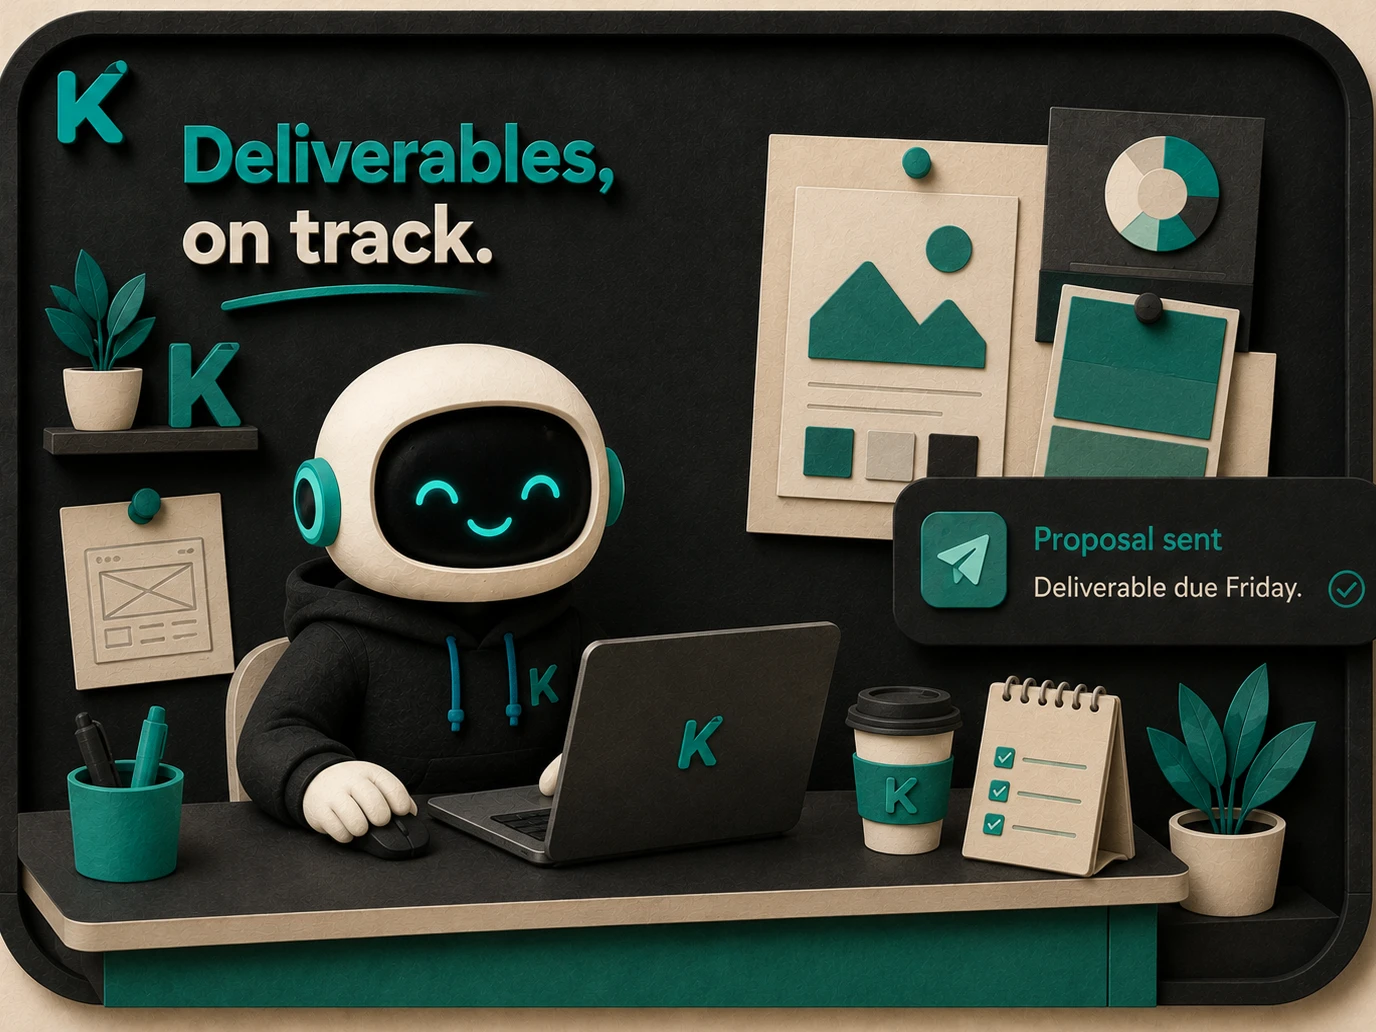
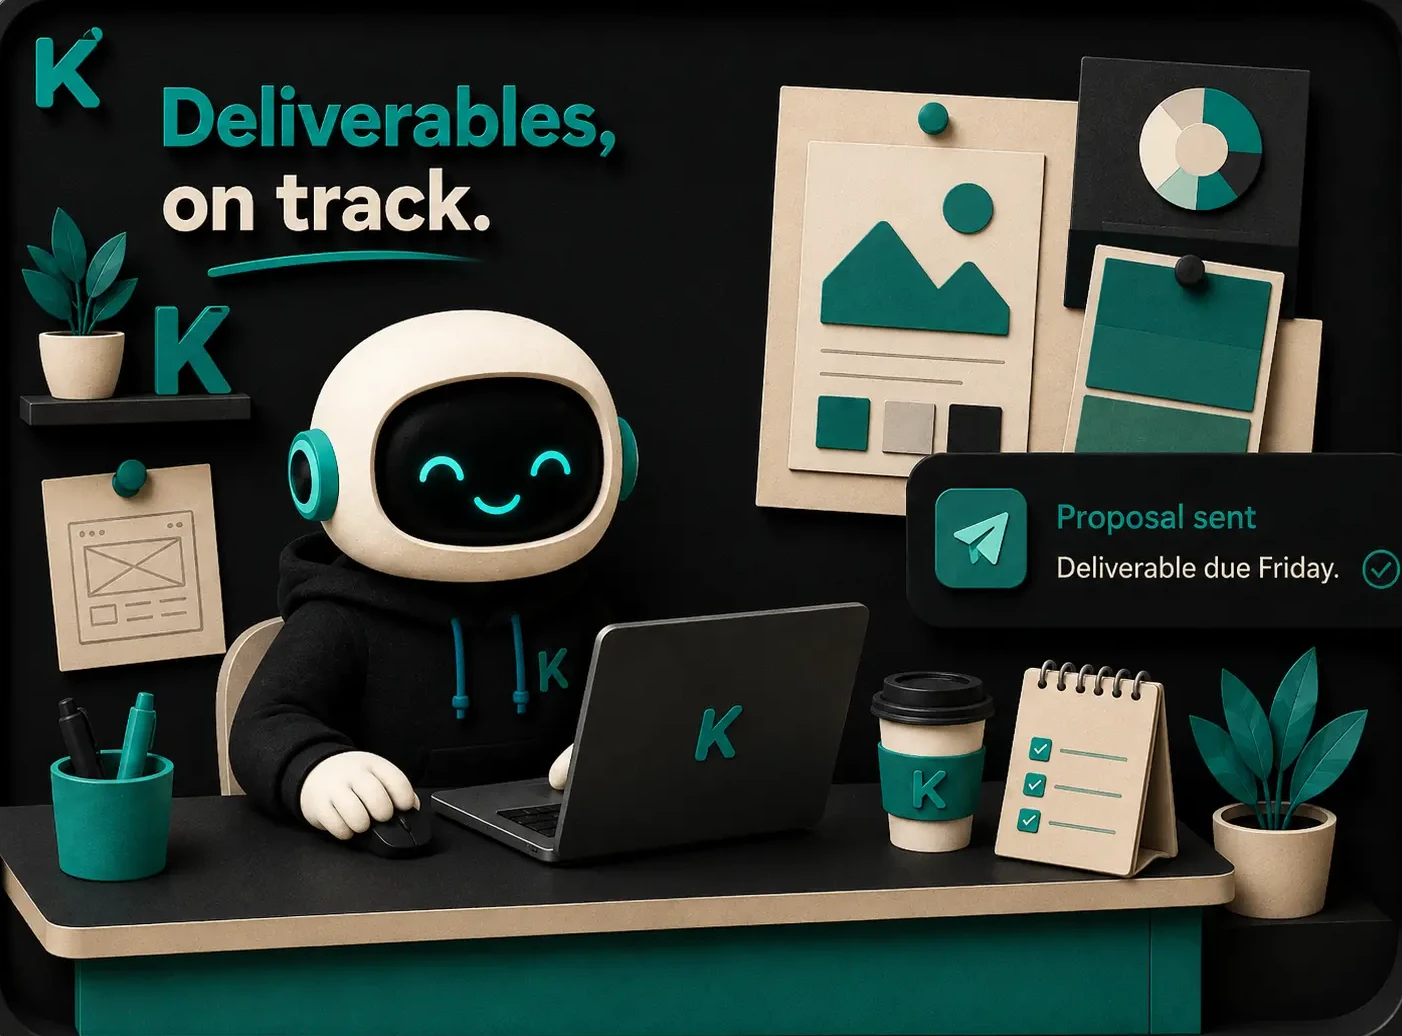
Swap in the new vertical art, cropped free of its frame
The four trade illustrations are replaced with the dark-ground set that
matches the site palette. Each source ships inside a baked rounded frame
and drop shadow, which read as a box sitting inside the showcase panel,
so they are cropped to just inside that frame — per-side insets measured
against each file rather than a uniform percentage, since the frames
differ in thickness and elements like the notification cards run right up
to the inner edge.

The panel cell now fills edge to edge at aspect 1.55 with object-cover,
and each vertical carries its own backdrop colour so nothing flashes
against the card during the crossfade. The image transition drops
mode="wait" so the two illustrations cross-dissolve instead of leaving
the panel empty for half a second between tabs.

Claude-Session: https://claude.ai/code/session_01MA9Ffj7rbrkHRPwnGXBQnp

diff --git a/app/page.tsx b/app/page.tsx
@@ -41,6 +41,7 @@ const VERTICALS = [
   {
     tab: "Coaching",
     image: "/images/vertical-coaching.webp",
+    bg: "#1c1c1c",
     name: "Coaching institutes",
     pain: "Admission inquiries get lost across DMs and WhatsApp.",
     win: "KROVA tracks every parent inquiry, follows up on unpaid fees, books demo calls.",
@@ -49,6 +50,7 @@ const VERTICALS = [
   {
     tab: "Clinics",
     image: "/images/vertical-clinics.webp",
+    bg: "#1c1c1c",
     name: "Clinics & doctors",
     pain: "Appointment requests pile up, follow-ups slip.",
     win: "KROVA confirms slots, sends prescription reminders, flags no-show risks early.",
@@ -57,6 +59,7 @@ const VERTICALS = [
   {
     tab: "Salons",
     image: "/images/vertical-salons.webp",
+    bg: "#101010",
     name: "Salons & spas",
     pain: "Booking requests sit in five different inboxes, and regulars get forgotten.",
     win: "KROVA confirms bookings, wishes birthdays, brings dormant customers back.",
@@ -65,6 +68,7 @@ const VERTICALS = [
   {
     tab: "Agencies",
     image: "/images/vertical-agencies.webp",
+    bg: "#0c0c0c",
     name: "Agencies & studios",
     pain: "Client commitments drift and quotes go unanswered.",
     win: "KROVA tracks deliverables, flags scope creep, drafts proposal replies in your tone.",
@@ -233,8 +237,8 @@ function VerticalShowcase() {
       {/* Panel */}
       <div className="overflow-hidden rounded-2xl border border-os-border bg-os-card">
         <div className="grid lg:grid-cols-2">
-          <div className="relative aspect-[4/3] lg:aspect-auto lg:min-h-[24rem]">
-            <AnimatePresence mode="wait">
+          <div className="relative aspect-[1.55]" style={{ backgroundColor: v.bg }}>
+            <AnimatePresence initial={false}>
               <motion.div
                 key={v.image}
                 initial={{ opacity: 0, scale: 1.02 }}
